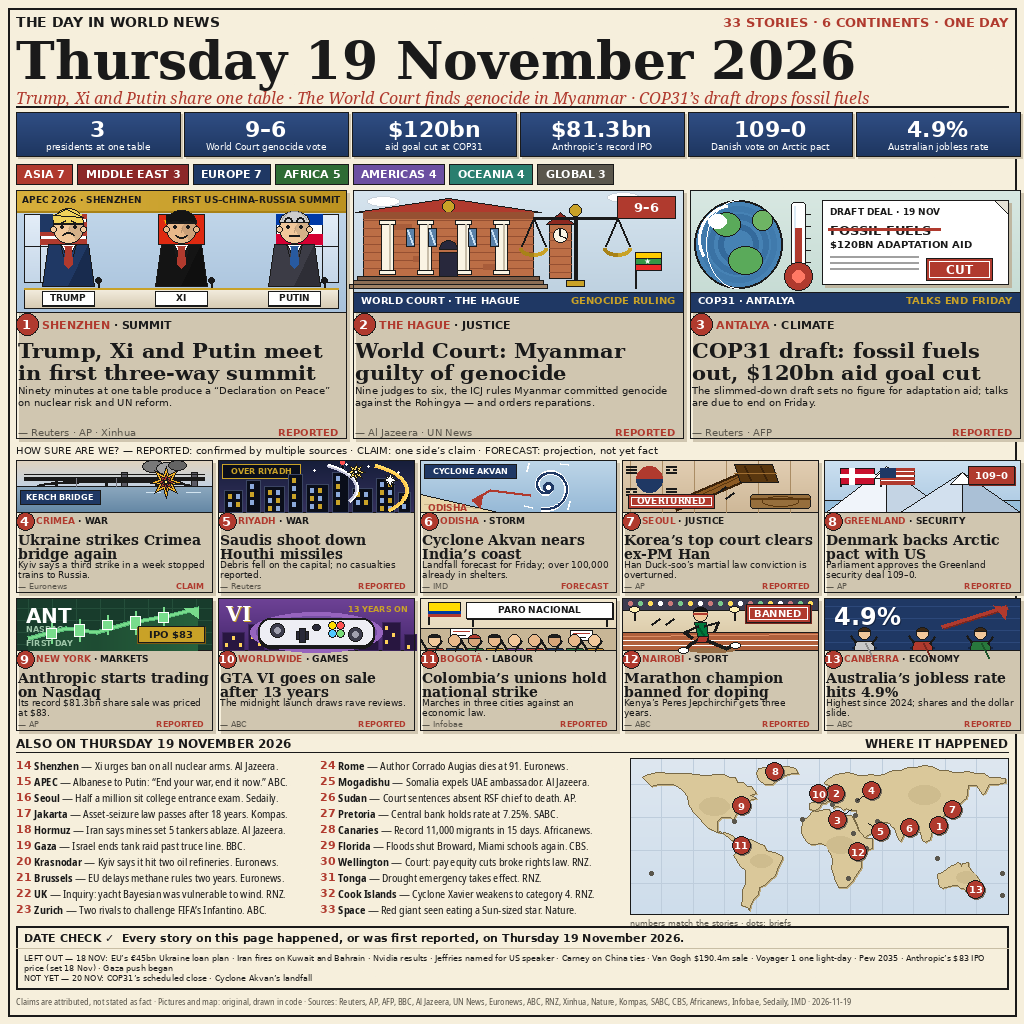
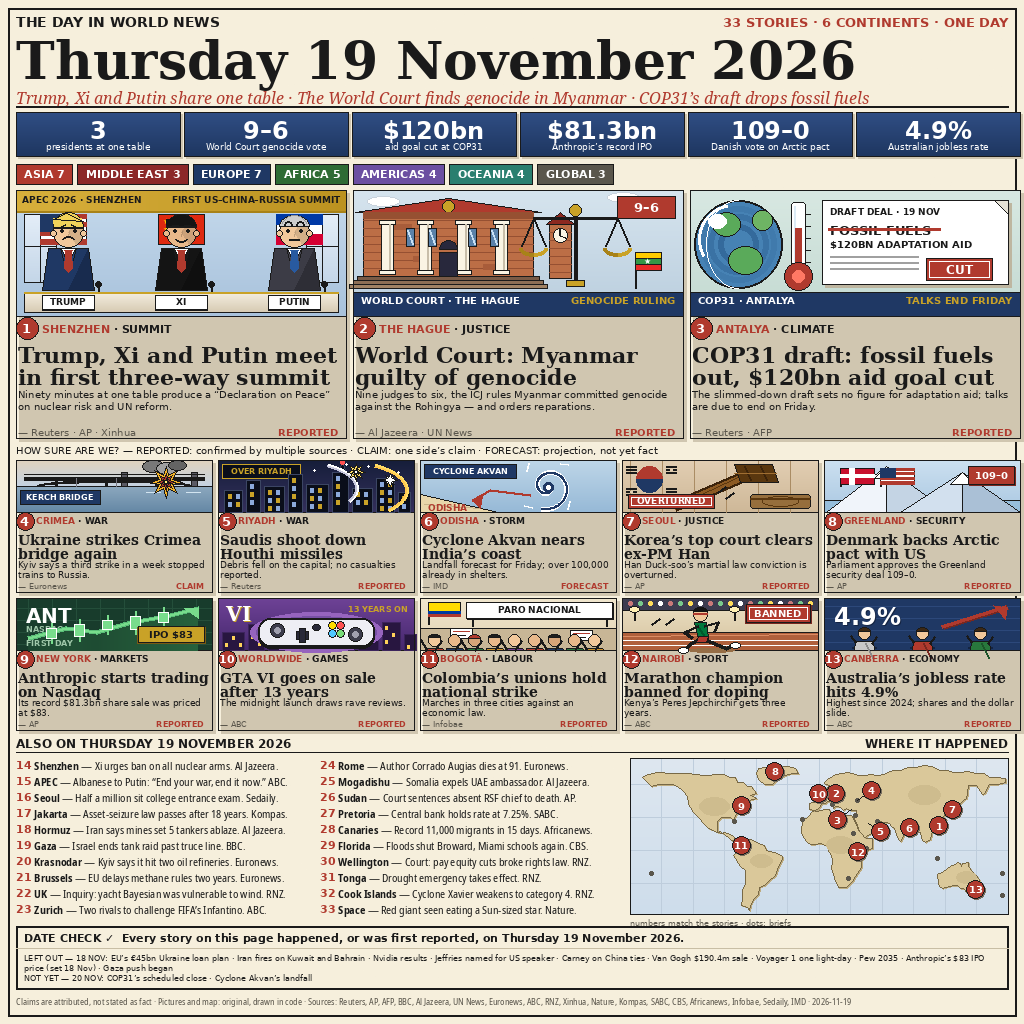
agent3 2/3 v5: hero scene 122->126, hero headline 21->22, stat value 22->24 (C5-as-A gap from round 5); v4 (10-2-0) stays fallback

diff --git a/draw.py b/draw.py
@@ -23,6 +23,9 @@ lightened, legend ink (not grey), paper grain halved — page reads lighter
 at 300px; (5) CLAIM/FORECAST tags genuinely used (card 4 Kerch = Kyiv's
 claim, card 6 cyclone = forecast landfall) so the legend framework is real;
 (6) map taller (148->156) with bigger pins, brief type 10->11.
+REV5 (surgical, judge-sim round 5 — C5-as-A gap only): hero scene 122->126
+(panel has 4px slack), hero headline 21->22, stat value 22->24. Nothing
+else changed. If round-6 sim does not beat v4 (10-2-0), v4 stays the best.
 Deterministic: no timestamps, no network, seeded texture only.
 """
 import os
@@ -1168,15 +1171,15 @@ FOOTER = ("Claims are attributed, not stated as fact \u00b7 Pictures and "
 
 
 def hero_panel(d, x, y, w, h, item):
-    scene_h = 122
+    scene_h = 126
     panel_shadow(d, x, y, w, h)
     item["scene"](d, x, y, w, scene_h)
     ty = y + scene_h + 6
     num_badge(d, x + 11, ty + 6, item["n"], r=11)
     kicker(d, x + 26, ty, item["place"], item["topic"])
     ty += 20
-    lines = wrap(item["head"], SERIF_B(21), w - 4)
-    ty = fit_lines(d, x + 2, ty, lines[:2], SERIF_B(21), INK, 22)
+    lines = wrap(item["head"], SERIF_B(22), w - 4)
+    ty = fit_lines(d, x + 2, ty, lines[:2], SERIF_B(22), INK, 22)
     ty += 2
     lines = wrap(item["deck"], SANS(10), w - 4)
     fit_lines(d, x + 2, ty, lines[:3], SANS(10), INK, 12)
@@ -1243,7 +1246,7 @@ def draw():
         d.rectangle([bx + 2, y + 2, bx + bw + 2, y + 46], fill=SHADOW)
         vgrad(d, bx, y, bx + bw, y + 44, (48, 78, 132), (30, 54, 96))
         d.rectangle([bx, y, bx + bw, y + 44], outline=INK, width=1)
-        nf = SANS_B(22)
+        nf = SANS_B(24)
         while nf.getlength(num) > bw - 10:
             nf = SANS_B(nf.size - 1)
         d.text((bx + bw / 2, y + 4), num, font=nf, fill=(255, 255, 255),
